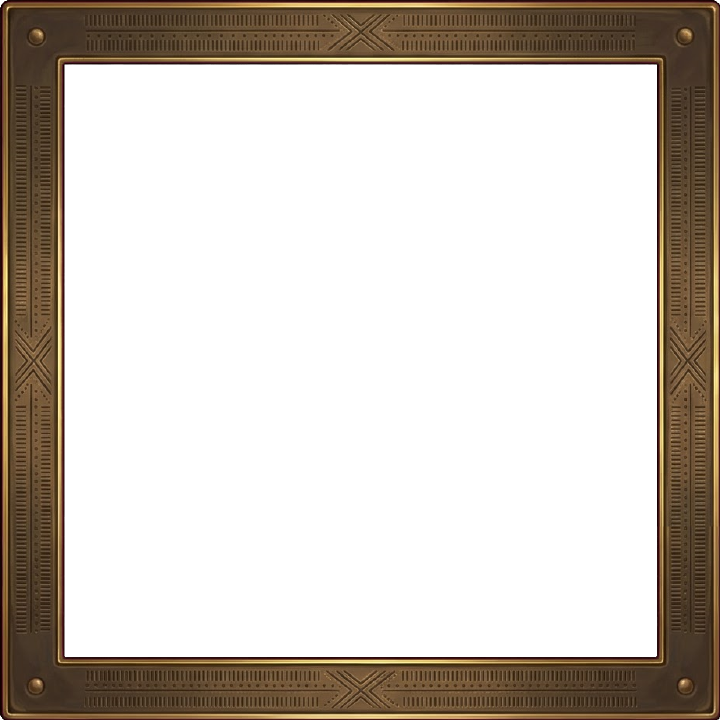
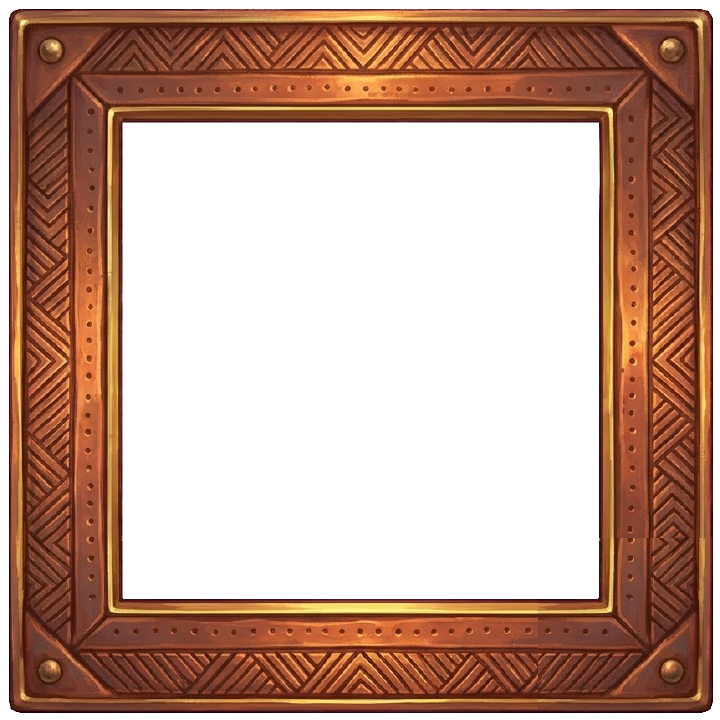
각성 액자를 따뜻한 청동 손그림으로 다시(새 대화 · 불꽃 자리와 같은 갈매기·청어뼈·점 새김) · 초상 창 맞춤 · 아랫변 불 잘린 줄 걷음
Claude-Session: https://claude.ai/code/session_01TRiuNBghcKFkjvLYPkZ8je

diff --git a/src/ui/realm/appstyle.ts b/src/ui/realm/appstyle.ts
@@ -1222,12 +1222,12 @@ export const UI_CSS = `
 .ap .axembers img { display: block; width: 100%; }
 @keyframes axember { 0% { opacity: 0; transform: none; } 12% { opacity: 1; } 75% { opacity: .85; } 100% { opacity: 0; transform: translate(var(--dx), -96vh) rotate(30deg); } }
 .ap .axstage { position: relative; z-index: 1; display: grid; justify-items: center; gap: 6px; }
-.ap .axcard { position: relative; width: min(74vw, 400px, 48vh); aspect-ratio: 1;
+.ap .axcard { position: relative; width: min(84vw, 440px, 52vh); aspect-ratio: 1;
   animation: axpop .55s cubic-bezier(.2, 1.4, .4, 1) .15s both, axshake .5s linear calc(var(--tf) - 550ms), axboom .6s cubic-bezier(.2, 1.6, .4, 1) var(--tf); }
 @keyframes axpop { from { opacity: 0; transform: translateY(14%) scale(.85); } to { opacity: 1; transform: none; } }
 @keyframes axshake { 0%, 100% { transform: none; } 20% { transform: translate(-4px, 2px) rotate(-1deg); } 40% { transform: translate(5px, -2px) rotate(1deg); } 60% { transform: translate(-6px, 1px); } 80% { transform: translate(4px, -1px); } }
 @keyframes axboom { 0% { transform: none; } 30% { transform: scale(1.08); } 100% { transform: none; } }
-.ap .axwin { position: absolute; left: 8%; right: 8%; top: 8%; bottom: 8%; overflow: hidden; background: #1c2129; }
+.ap .axwin { position: absolute; left: 15%; right: 15%; top: 15%; bottom: 15%; overflow: hidden; background: #1c2129; }
 .ap .axframe { position: absolute; inset: 0; width: 100%; height: 100%; z-index: 1; pointer-events: none; }
 .ap .axold, .ap .axnew { position: absolute; inset: 0; width: 100%; height: 100%; object-fit: cover; object-position: 50% 20%; }
 .ap .axold { animation: axgone .25s linear var(--tf) forwards; }

diff --git a/src/ui/realm/burn.ts b/src/ui/realm/burn.ts
@@ -61,11 +61,11 @@ void main(){
       float n=fbm(vec2(x*11.+(w-.5)*2.2,cy*2.6-uT*2.8));
       float ridge=1.-abs(2.*n-1.);
       float col=fbm(vec2(x*6.-uSeed,uT*.6)); // 혀마다 키가 다르다
-      float topw=.55+.45*smoothstep(.2,1.,cy); // 윗변 쪽이 더 세다: 열은 위로 모인다
+      float topw=(.55+.45*smoothstep(.2,1.,cy))*smoothstep(.0,.14,cy); // 아랫변 끝은 옅게: 캔버스 밑에서 잘린 줄이 안 보이게 // 윗변 쪽이 더 세다: 열은 위로 모인다
       h=max(h,(ridge*1.45-.3-e*(2.4-col*1.2)-cool*.9)*(1.-smoothstep(.8,1.,e))*topw);
     }
     // 안쪽 창(초상)은 가리지 않는다
-    if(x>.086&&x<.914&&cy>.086&&cy<.914)h=0.;
+    if(x>.15&&x<.85&&cy>.15&&cy<.85)h=0.;
   }
   h-=(1.-uOn)*.9; // 깎기: 붙는 동안 문턱이 내려가며 번진다
   gl_FragColor=ramp(clamp(h,0.,1.));
